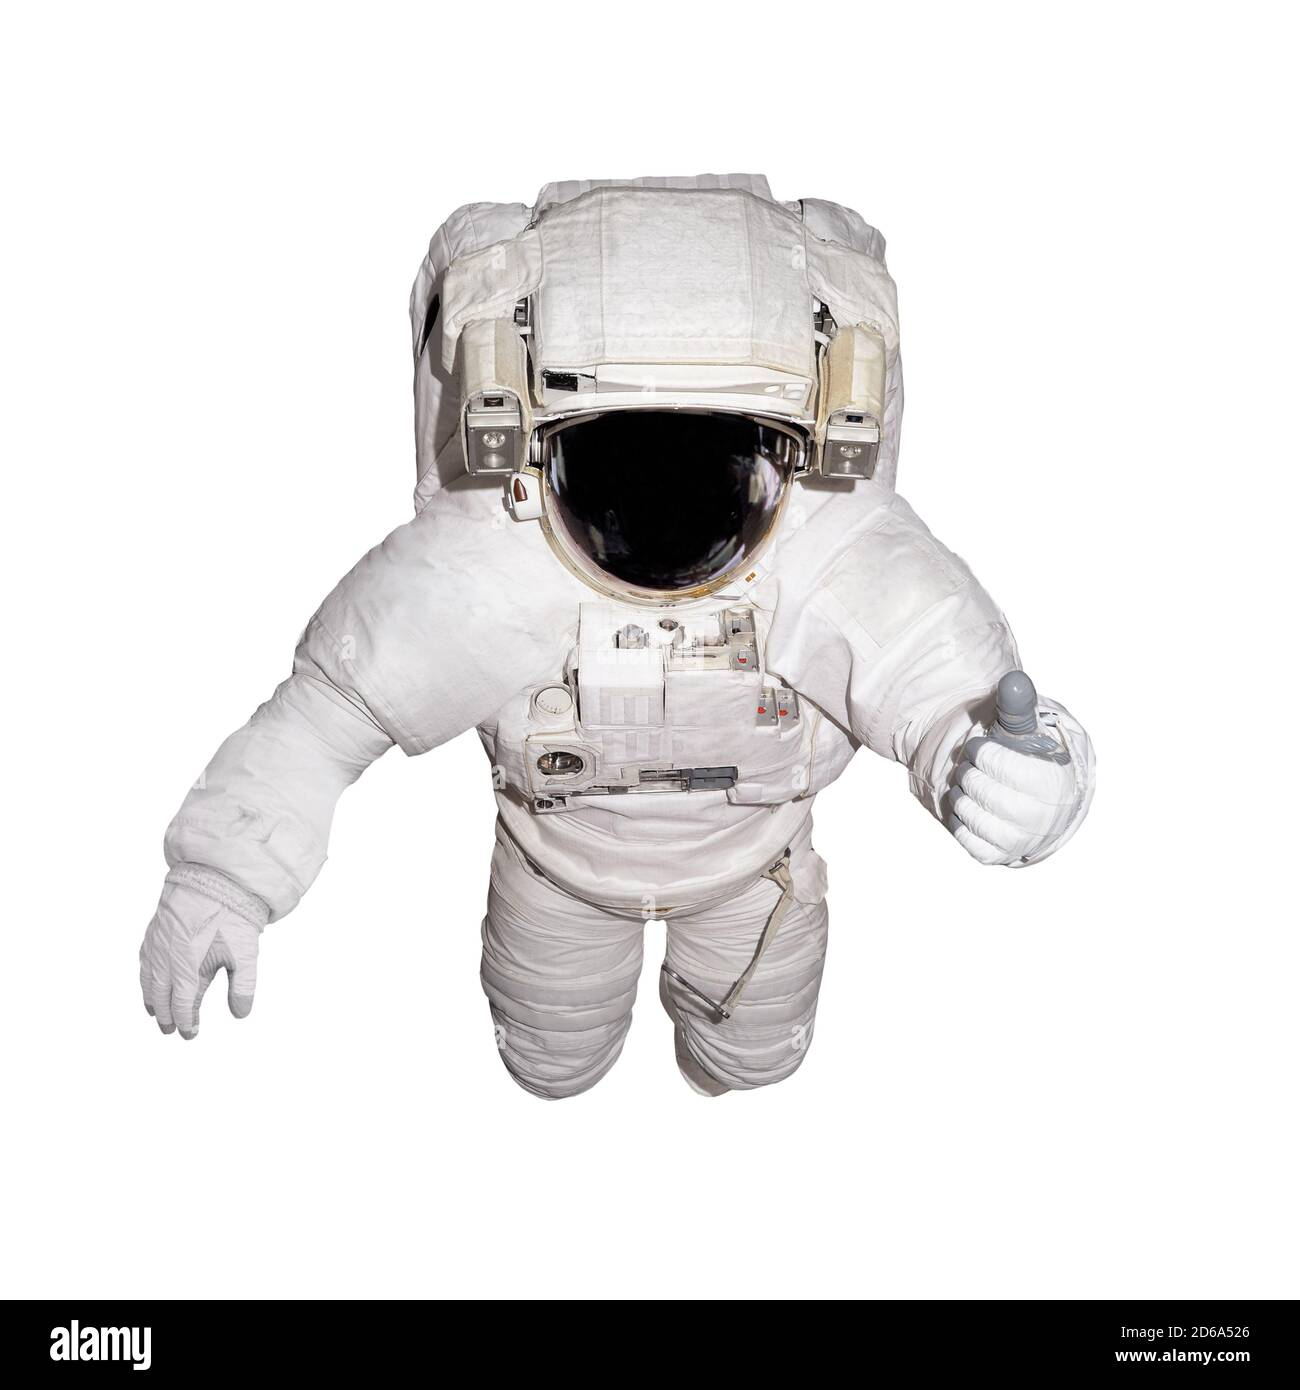
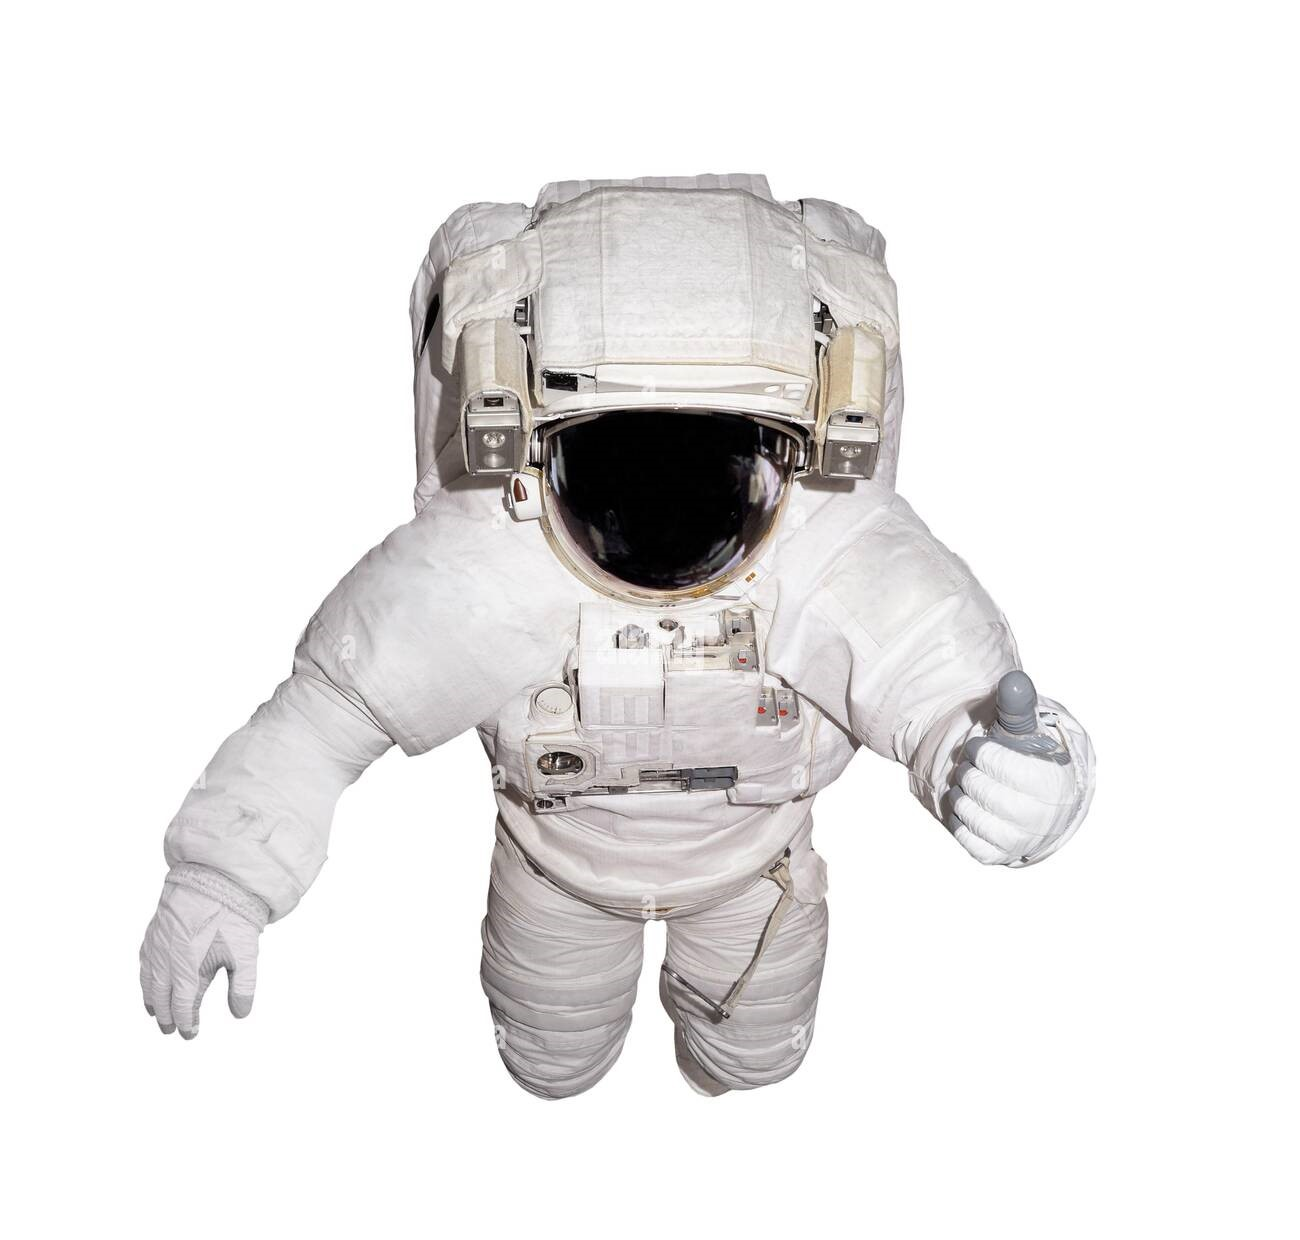
features

Changed region(s): [[0.0923, 0.1226, 0.8615, 0.8887], [0.0, 0.9194, 1.0, 1.0]]

diff --git a/task1/index.html b/task1/index.html
@@ -138,7 +138,7 @@
         </div>
         <div class="feature feature4">
           <div class="f_inner_container_img1">
-            <img src="the-moon-white-background-2B62C3D.jpg" alt="" id="f_inner_container_img1">
+            <img src="Spacewalk .jpeg" alt="" id="f_inner_container_img1">
           </div>
           <div class="f_inner_container4 f_inner_container">
             <h3>Spacewalk Experience - Antariksh Yatra</h3>
@@ -151,7 +151,7 @@
         </div>
         <div class="feature feature5">
           <div class="f_inner_container_img1">
-            <img src="the-moon-white-background-2B62C3D.jpg" alt="" id="f_inner_container_img1">
+            <img src="asto mining.png" alt="" id="f_inner_container_img1">
           </div>
           <div class="f_inner_container5 f_inner_container">
             <h3>Asteroid Mining Expedition - Graha Vajra Yatayat</h3>
@@ -164,7 +164,7 @@
         </div>
         <div class="feature feature6">
           <div class="f_inner_container_img1">
-            <img src="the-moon-white-background-2B62C3D.jpg" alt="" id="f_inner_container_img1">
+            <img src="cosmic safari.jpeg" alt="" id="f_inner_container_img1">
           </div>
           <div class="f_inner_container6 f_inner_container">
             <h3>Interstellar Safari - Antriksha Vanabhoji</h3>
@@ -177,7 +177,7 @@
         </div>
         <div class="feature feature7">
           <div class="f_inner_container_img1">
-            <img src="the-moon-white-background-2B62C3D.jpg" alt="" id="f_inner_container_img1">
+            <img src="Stellar Observatory.jpeg" alt="" id="f_inner_container_img1">
           </div>
           <div class="f_inner_container7 f_inner_container">
             <h3>Stellar Observatory - Akash Darshan</h3>
@@ -190,7 +190,7 @@
         </div>
         <div class="feature feature8">
           <div class="f_inner_container_img1">
-            <img src="the-moon-white-background-2B62C3D.jpg" alt="" id="f_inner_container_img1">
+            <img src="Space Station.jpg" alt="" id="f_inner_container_img1">
           </div>
           <div class="f_inner_container8 f_inner_container">
             <h3>Space Station Immersion - Antariksh Nivas</h3>

diff --git a/task1/features.css b/task1/features.css
@@ -90,7 +90,7 @@
 }
 .feature6{
     /* background: url('Interstellar Safari .jpg') no-repeat center center/cover; */
-    background-color: rgb(0, 0, 0);
+    background-color: rgb(8, 8, 8);
     color: aliceblue;
     box-shadow: inset 0px 0px 10px rgba(255, 255, 255, 0.363);
 }
@@ -127,21 +127,21 @@
     }
 @media (max-width:450px){
     .feature{
-        height: 270px;
+        height: 280px;
     }
     }
 @media (max-width:422px){
     .feature{
-        height: 290px; 
+        height: 300px; 
     }
     }
 @media (max-width:396px){
     .feature{
-        height: 350px;
+        height: 360px;
     }
     }
 @media (max-width:372px){
     .feature{
-        height: 400px; 
+        height: 410px; 
     }
     }
